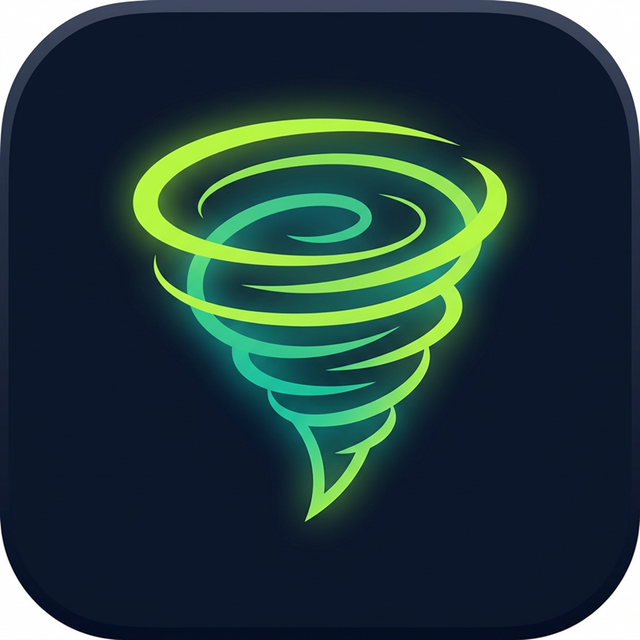
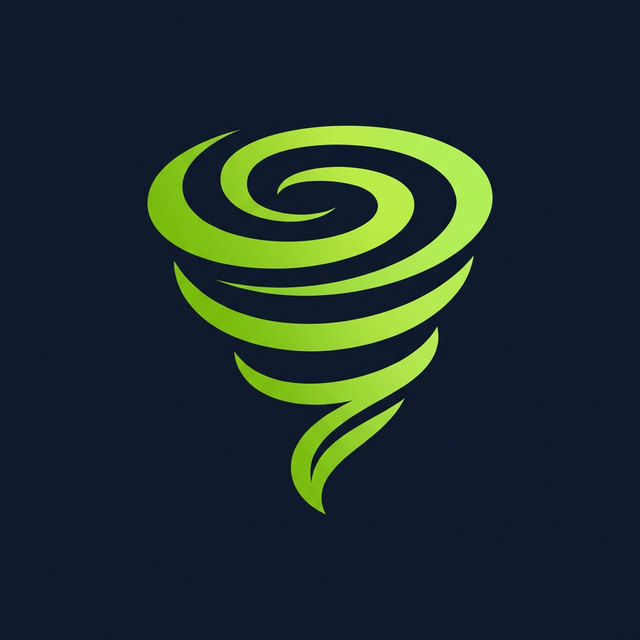
feat: iOS App Store launch readiness
- iOS share sheet (Share.share) + share button in translate conversation turns
- useReducedMotion hook — respects iOS Reduce Motion accessibility setting
- VoiceOver announcements: recording start, translation complete with text
- Accessibility labels on all media toggles (audio/video/text switches)
- Accessibility labels + roles on favorite, copy, share action buttons
- App Clip config: associated domains (applinks + appclips)
- iOS deployment target 16.0, buildNumber 1
- NSPhotoLibraryUsageDescription + NSPhotoLibraryAddUsageDescription
- isMounted ref guard in camera live scan to prevent memory leaks
- Generated app icon (1024×1024 tornado/wind design)

diff --git a/src/hooks/useReducedMotion.ts b/src/hooks/useReducedMotion.ts
@@ -1,0 +1,35 @@
+/**
+ * 🧬 Reduced Motion Hook
+ * Respects iOS "Reduce Motion" setting.
+ * Returns boolean + helper to skip or shorten animations.
+ */
+import { AccessibilityInfo, Platform } from 'react-native';
+import { useCallback, useEffect, useState } from 'react';
+
+export function useReducedMotion() {
+    const [reduceMotion, setReduceMotion] = useState(false);
+
+    useEffect(() => {
+        AccessibilityInfo.isReduceMotionEnabled().then(setReduceMotion);
+
+        const sub = AccessibilityInfo.addEventListener(
+            'reduceMotionChanged',
+            setReduceMotion
+        );
+
+        return () => sub.remove();
+    }, []);
+
+    /**
+     * Returns 0 duration if reduce motion is on, otherwise the given duration.
+     */
+    const animDuration = useCallback(
+        (ms: number): number => (reduceMotion ? 0 : ms),
+        [reduceMotion]
+    );
+
+    return {
+        reduceMotion,
+        animDuration,
+    };
+}

diff --git a/src/app/translate/index.tsx b/src/app/translate/index.tsx
@@ -6,7 +6,7 @@
  */
 import {
     View, Text, StyleSheet, Pressable, ScrollView, Platform,
-    Alert, Modal, FlatList, Dimensions, Animated, KeyboardAvoidingView,
+    Alert, Modal, FlatList, Dimensions, Animated, KeyboardAvoidingView, Share,
 } from 'react-native';
 import { useState, useCallback, useEffect, useRef } from 'react';
 import { useRouter } from 'expo-router';
@@ -22,6 +22,7 @@ import {
 import { feedbackService } from '@/services/feedback';
 import { useFeatureGate } from '@/hooks/useFeatureGate';
 import { useHaptic } from '@/hooks/useHaptic';
+import { useAccessibility } from '@/hooks/useAccessibility';
 import { SpeechWaveform } from '@/components/SpeechWaveform';
 import { SpeechTranslationError, SPEECH_ERROR_MESSAGES } from '@/services/speech-translation';
 import { networkMonitor, type NetworkStatus } from '@/services/network-monitor';
@@ -35,6 +36,7 @@ export default function TranslateScreen() {
     const router = useRouter();
     const { requireFeature } = useFeatureGate();
     const haptic = useHaptic();
+    const { announce } = useAccessibility();
 
     // State
     const [sourceLang, setSourceLang] = useState('en');
@@ -108,6 +110,18 @@ export default function TranslateScreen() {
         ]).start(() => setCopyToast(false));
     };
 
+    // iOS share sheet for translations
+    const handleShareTurn = async (turn: ConversationTurn) => {
+        try {
+            const shareText = `"${turn.original}"\n→ "${turn.translated}"\n\nTranslated with Windy Pro 🌪️`;
+            await Share.share({
+                message: shareText,
+                title: 'Windy Pro Translation',
+            });
+            feedbackService.tap();
+        } catch { /* user cancelled */ }
+    };
+
     // Toggle favorite/pin on a turn
     const handleToggleFavorite = (turnId: string) => {
         setTurns(prev => prev.map(t =>
@@ -158,6 +172,7 @@ export default function TranslateScreen() {
             setAudioLevel(0);
             haptic.medium();
             feedbackService.recordStart();
+            announce('Recording started. Speak now.');
         } catch (err) {
             console.error('[Translate] Start recording failed:', err);
             haptic.error();
@@ -240,6 +255,7 @@ export default function TranslateScreen() {
             setTurns((prev) => [...prev, turn]);
             saveToHistory(turn);
             haptic.success();
+            announce(`Translation complete. ${result.translated}`);
 
             // TTS: speak the translation aloud
             if (ttsEnabled) {
@@ -482,11 +498,14 @@ export default function TranslateScreen() {
                                             <Text style={styles.confidenceText}>{Math.round(turn.confidence * 100)}%</Text>
                                         </View>
                                     )}
-                                    <Pressable onPress={() => handleToggleFavorite(turn.id)} hitSlop={8}>
+                                    <Pressable onPress={() => handleToggleFavorite(turn.id)} hitSlop={8} accessibilityLabel={turn.favorite ? 'Remove from favorites' : 'Add to favorites'} accessibilityRole="button">
                                         <Text style={styles.favoriteBtn}>{turn.favorite ? '⭐' : '☆'}</Text>
                                     </Pressable>
-                                    <Pressable onPress={() => handleCopyTurn(turn)} hitSlop={8}>
+                                    <Pressable onPress={() => handleCopyTurn(turn)} hitSlop={8} accessibilityLabel="Copy translation" accessibilityRole="button">
                                         <Text style={styles.copyBtn}>📋</Text>
+                                    </Pressable>
+                                    <Pressable onPress={() => handleShareTurn(turn)} hitSlop={8} accessibilityLabel="Share translation" accessibilityRole="button">
+                                        <Text style={styles.copyBtn}>📤</Text>
                                     </Pressable>
                                 </View>
                             </View>

diff --git a/src/app/(tabs)/camera.tsx b/src/app/(tabs)/camera.tsx
@@ -40,6 +40,7 @@ export default function CameraTab() {
     const [detectedLang, setDetectedLang] = useState<string | null>(null);
     const liveScanRef = useRef<ReturnType<typeof setInterval> | null>(null);
     const scanningRef = useRef(false);
+    const isMountedRef = useRef(true);
 
     const overlayOpacity = useRef(new Animated.Value(0)).current;
 
@@ -58,7 +59,9 @@ export default function CameraTab() {
 
     // Clean up live scan on unmount
     useEffect(() => {
+        isMountedRef.current = true;
         return () => {
+            isMountedRef.current = false;
             if (liveScanRef.current) clearInterval(liveScanRef.current);
         };
     }, []);
@@ -128,9 +131,9 @@ export default function CameraTab() {
                     quality: 0.4,
                     skipProcessing: true,
                 });
-                if (photo?.base64) {
+                if (photo?.base64 && isMountedRef.current) {
                     const ocrResult = await ocrService.translateFromCamera(photo.base64, targetLang);
-                    if (ocrResult.original.text.trim()) {
+                    if (ocrResult.original.text.trim() && isMountedRef.current) {
                         setLiveResult(ocrResult);
                         setDetectedLang(ocrResult.fromLang);
                     }

diff --git a/src/app/(tabs)/index.tsx b/src/app/(tabs)/index.tsx
@@ -466,6 +466,8 @@ export default function RecordScreen() {
                 <Pressable
                     style={[styles.toggle, mediaCapture.audio && styles.toggleActive]}
                     onPress={async () => { await feedbackService.tap(); toggleMedia('audio'); }}
+                    accessibilityLabel={`Audio capture ${mediaCapture.audio ? 'on' : 'off'}`}
+                    accessibilityRole="switch"
                 >
                     <Text style={styles.toggleEmoji}>🎤</Text>
                     <Text style={[styles.toggleLabel, mediaCapture.audio && styles.toggleLabelActive]}>
@@ -478,6 +480,8 @@ export default function RecordScreen() {
                         if (!requireFeature('video-capture', 'Video Capture')) return;
                         await feedbackService.tap(); toggleMedia('video');
                     }}
+                    accessibilityLabel={`Video capture ${mediaCapture.video ? 'on' : 'off'}`}
+                    accessibilityRole="switch"
                 >
                     <Text style={styles.toggleEmoji}>📹</Text>
                     <Text style={[styles.toggleLabel, mediaCapture.video && styles.toggleLabelActive]}>
@@ -487,6 +491,8 @@ export default function RecordScreen() {
                 <Pressable
                     style={[styles.toggle, mediaCapture.text && styles.toggleActive]}
                     onPress={async () => { await feedbackService.tap(); toggleMedia('text'); }}
+                    accessibilityLabel={`Text transcription ${mediaCapture.text ? 'on' : 'off'}`}
+                    accessibilityRole="switch"
                 >
                     <Text style={styles.toggleEmoji}>📝</Text>
                     <Text style={[styles.toggleLabel, mediaCapture.text && styles.toggleLabelActive]}>